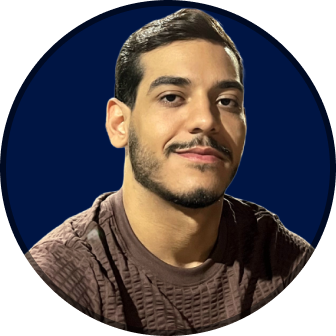
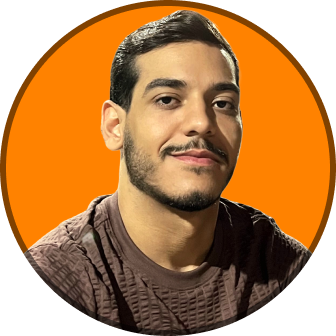
Customizando a foto de perfil

diff --git a/index.html b/index.html
@@ -16,7 +16,7 @@
     <div id="container">
       <div id="profile">
         <img
-          src="./assets/avatar_light.png"
+          src="./assets/avatar_dark.png"
           alt="Rafael Chacon sorrindo para a foto, usando uma camiseta marrom e fundo azul claro."
         />
         <p>@rafaelchacon</p>
